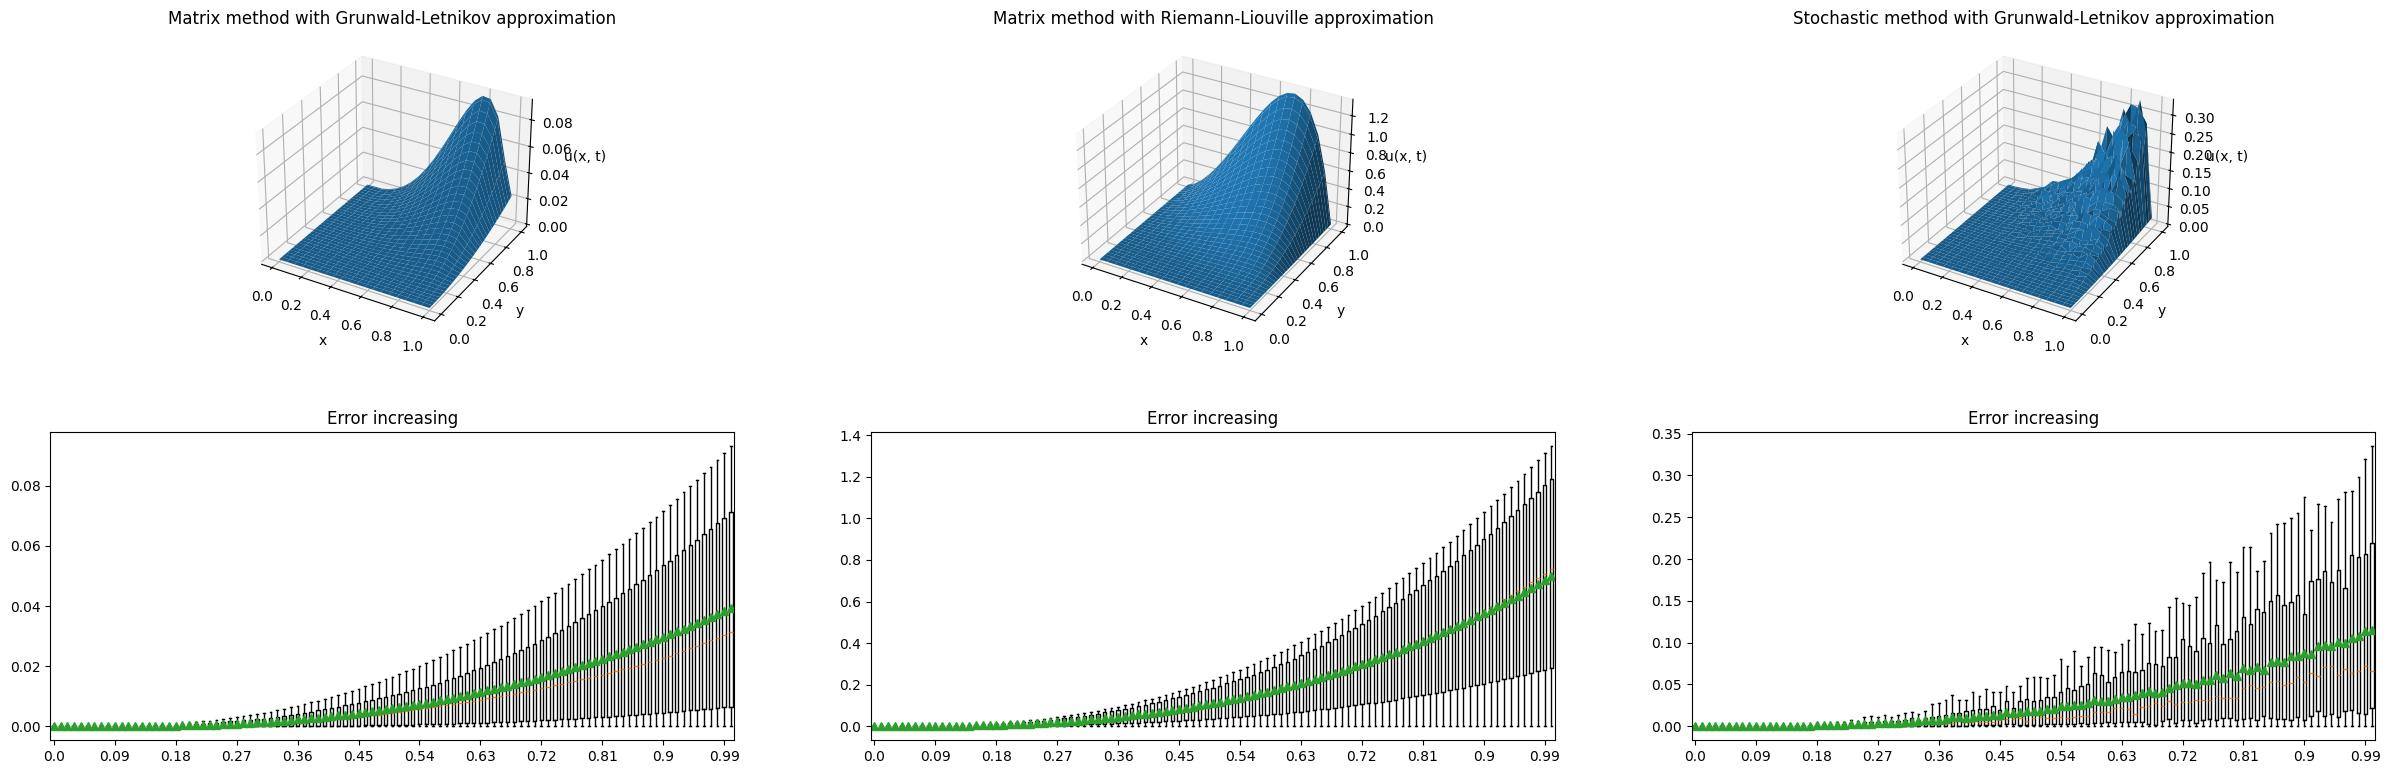
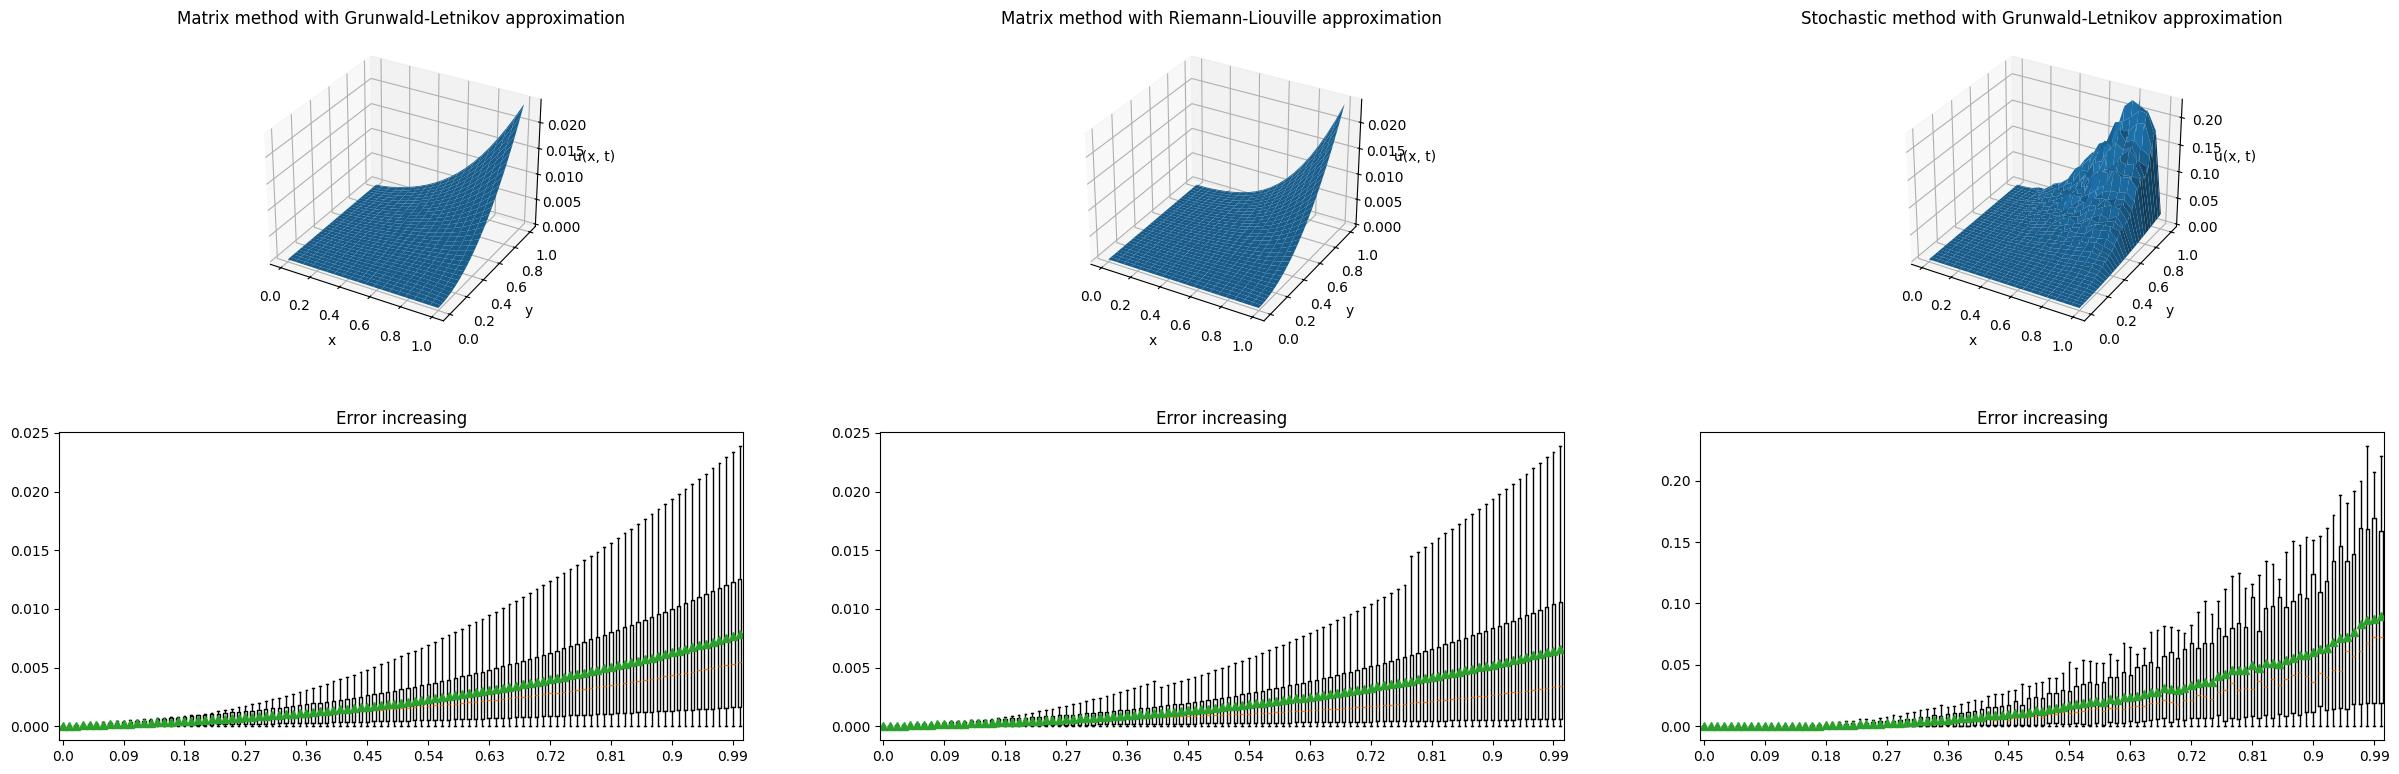
Some fixes

diff --git a/libs/sfdes.hpp b/libs/sfdes.hpp
@@ -3,8 +3,32 @@
 #include <equation_solver.hpp>
 #include <rules_impl.hpp>
 #include <linalg/matrix.hpp>
-#include <numeric>
-#include <random>
+#include <utils/utils.hpp>
+#include <omp.h>
+
+template<class T>
+usize bin_search(const std::vector<T>& v, T k) {
+        usize l = 0, r = v.size() - 1, mid;
+
+    while (r - l > 1) {
+
+        mid = (r + l) / 2;
+
+        if (k < v[mid]) {
+            r = mid;
+        }
+        else if (k > v[mid]) {
+            l = mid;
+        }
+        else {
+            l = mid;
+            r = mid;
+        }
+
+    }
+
+    return k <= v[l] ? l : r;
+}
 
 namespace NEquationSolver {
 
@@ -39,9 +63,8 @@ namespace NEquationSolver {
             std::vector<std::vector<double>> prefsumProbs(Probabilities.size(), std::vector<double>(Probabilities[0].size(), 0.0));
             for (usize i = 0; i <= n; i++) {
                 std::inclusive_scan(Probabilities[i].begin(), Probabilities[i].end(), prefsumProbs[i].begin());
-                INFO_LOG << prefsumProbs[i] << Endl;
             }
-            
+
             // Учёт начального и граничных условий
 
             for (usize i = 0; i <= n; i++) {
@@ -59,8 +82,9 @@ namespace NEquationSolver {
             std::uniform_real_distribution<double> generator(0.0, 1.0);
 
             for (usize i = 1; i < n; i++) {
-                for (usize j = 1; j <= k; j++) {
-                    for (usize _n = 0; _n < count; _n++) {
+                #pragma omp parallel for
+                for (i64 j = 1; j <= k; j++) {
+                    for (i64 _n = 0; _n < count; _n++) {
                         long long x = i, y = j;
 
                         while (y > 0 && x < n && x > 0) {
@@ -68,9 +92,6 @@ namespace NEquationSolver {
                             long long idx = 0;
 
                             idx = std::lower_bound(prefsumProbs[x].begin(), prefsumProbs[x].end(), rnd) - prefsumProbs[x].begin();
-                            if (idx > 2 * n + k + 1) {
-                                ERROR_LOG << std::format("LB founded {} while size: {}", idx, prefsumProbs[0].size()) << Endl;
-                            }
 
                             result[j][i] += SourceFunction[y][x] * PowTCGamma;
 
@@ -87,15 +108,15 @@ namespace NEquationSolver {
                         if (y <= 0 && (x >= 0) && (x <= n)) {
                             result[j][i] += ZeroTimeState[x];
                         } else if (Config.BordersAvailable) {
-                            if (x == 0 && y > 0) {
+                            if (x <= 0 && y > 0) {
                                 result[j][i] += LeftBoundState[y];
-                            } else if (x == n && y > 0) {
+                            } else if (x >= n && y > 0) {
                                 result[j][i] += RightBoundState[y];
                             }
                         }
                     }
 
-                    result[j][i] /= (double)count;
+                    result[j][i] /= static_cast<double>(count);
                 }
             }
 
@@ -110,7 +131,7 @@ namespace NEquationSolver {
 
     private:
 
-        std::vector<std::vector<double>> MakeProb() {
+        void MakeProb() {
             const usize n = Config.SpaceCount;
             const usize k = Config.TimeCount;
             const double alpha = Config.Alpha;
@@ -120,7 +141,7 @@ namespace NEquationSolver {
             for (usize i = 0; i <= n; i++) {
                 Probabilities[i].resize(2 * n + 2 + k, 0.0);
 
-                double a00 = CoefA(Space(i)), b00 = CoefB(Space(i)), c00 = CoefC(Space(i)); // Только для D = const
+                double a00 = CoefA(Space(i)), b00 = CoefB(Space(i)), c00 = CoefC(Space(i));
 
                 Probabilities[i][n + 1] = a00 * GAlpha[2] + b00 - c00;
                 Probabilities[i][n - 1] = a00 + b00 * GAlpha[2] + c00;
@@ -137,9 +158,6 @@ namespace NEquationSolver {
                 Probabilities[i][2 * n + 1 + k] = 0.0;
                 Probabilities[i][2 * n + 1 + k] = 1.0 - std::accumulate(Probabilities[i].begin(), Probabilities[i].end(), 0.0);
             }
-            
-            
-            return Probabilities;
         }
     };
 }

diff --git a/main.cpp b/main.cpp
@@ -92,7 +92,7 @@ int main(int argc, char** argv) {
             .LeftBoundState = [](double t){ return 0.0; },
             .RightBoundState = [](double t){ return std::pow(t, 2.0); },
             .BordersAvailable = true,
-            .StochasticIterationCount = 100,
+            .StochasticIterationCount = 800,
             .RealSolutionName = "Real solution: $u(x, t) = x^2 \\cdot t^2$",
             .RealSolution = [](double x, double t){ return x*x*t*t; },
         };

diff --git a/libs/utils/utils.hpp b/libs/utils/utils.hpp
@@ -7,8 +7,11 @@
 #include <algorithm>
 #include <map>
 #include <numbers>
+#include <numeric>
 #include <unordered_map>
 #include <ranges>
+#include <random>
+#include <cassert>
 #include <format>
 
 #include <logger/logger.hpp>
